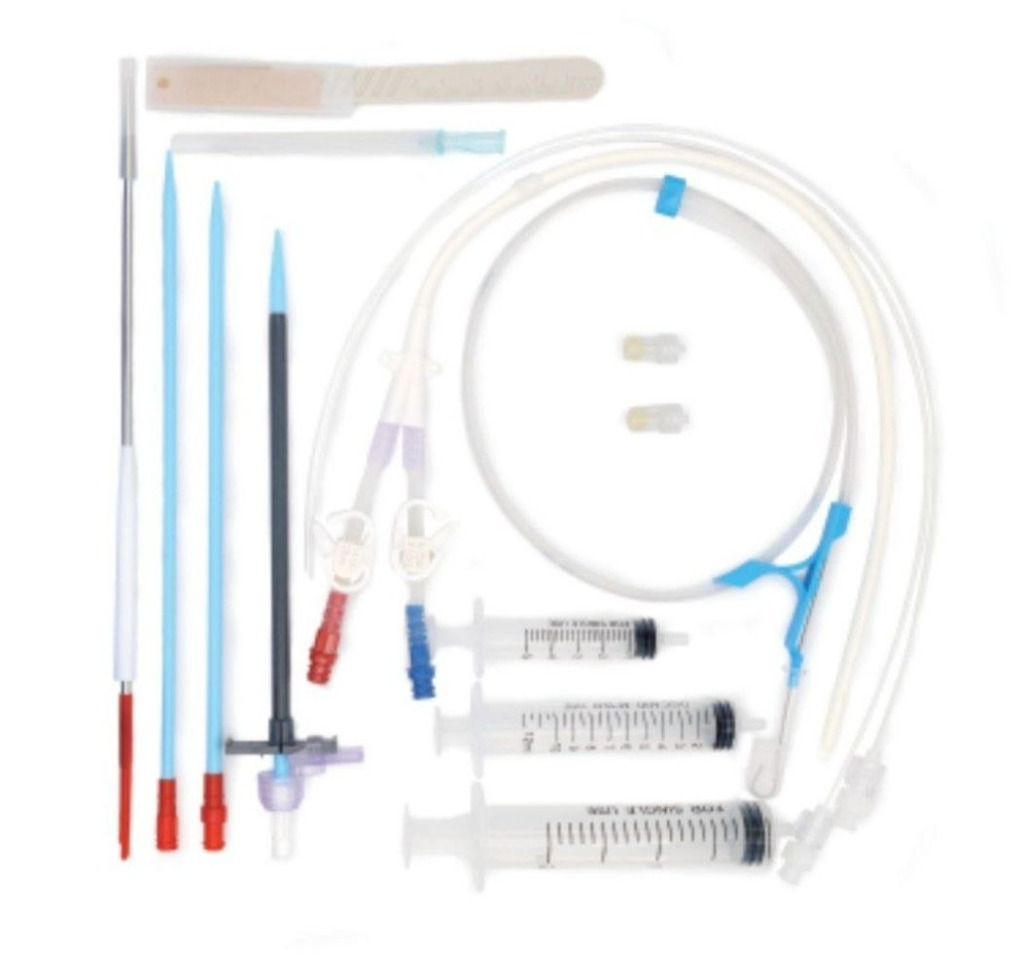
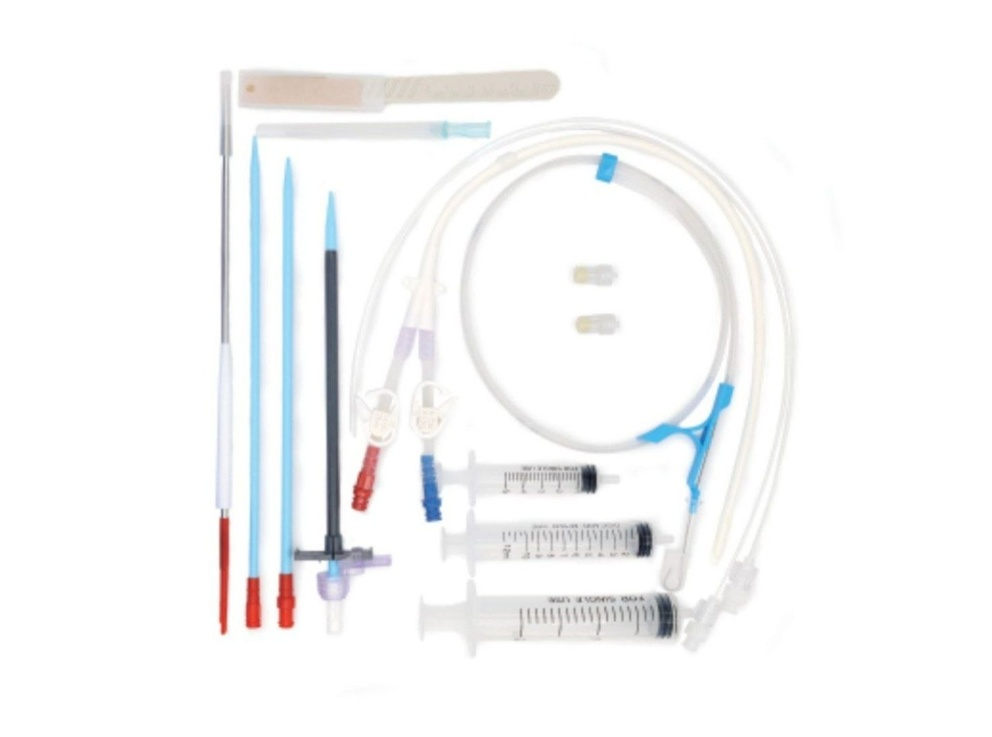
Fix image sizing and aspect ratios for product catalog

Changed region(s): [[0.0938, 0.0312, 0.875, 0.905], [0.7812, 0.2185, 0.8438, 0.2809], [0.75, 0.1872, 0.7812, 0.2185]]

diff --git a/index.html b/index.html
@@ -90,6 +90,20 @@
   z-index: 2; /* content នៅលើ overlay */
 }
 
+#products-grid a img {
+  width: 100%;
+  aspect-ratio: 4 / 3;
+  object-fit: contain;
+  background-color: #ffffff;
+}
+
+#details-content img {
+  max-height: 400px;
+  object-fit: contain;
+  background-color: #ffffff;
+  margin: 0 auto;
+}
+
 
 
 
